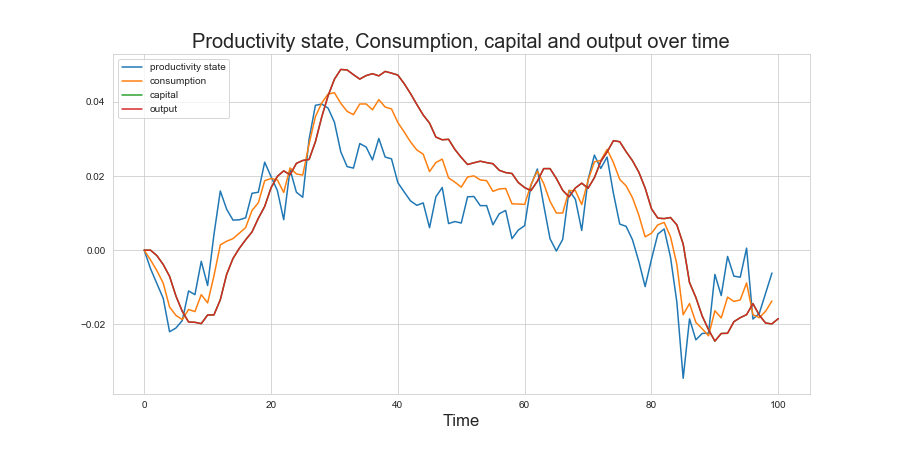
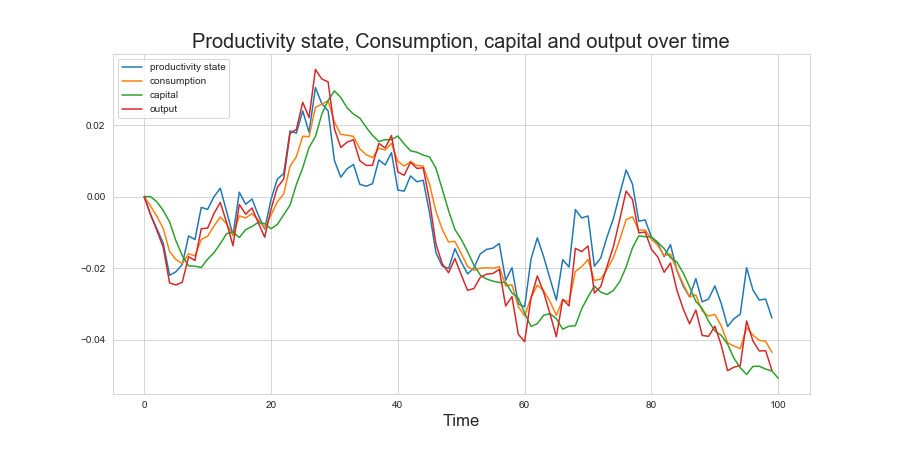
:pencil2: Fix plot typo.

diff --git a/functions.py b/functions.py
@@ -39,7 +39,7 @@ def solve_farmer_model(alpha, beta, delta, rho, T, inital_productivity_state):
     k_t: array_like
         Capital over time. The shape should be (T + 1, 1).
     y_t: array_like
-        Output over time. The shape should be (T + 1, 1).
+        Output over time. The shape should be (T, 1).
     """
     # Getting non-stochastic steady-state values.
     k_bar = ((1 / beta - 1 + delta) / alpha) ** (1 / (alpha - 1))
@@ -132,6 +132,6 @@ def solve_farmer_model(alpha, beta, delta, rho, T, inital_productivity_state):
         k_t[t + 1] = b1 * k_t[t] + b2 * s_t[t] + b3 * c_t[t]
     # log linearization of production function y_t = s_t*(k^{alpha}_t)， yields
     # \hat{y}_t = \hat{s}_t + alpha*\hat{k}_t
-    y_t = np.transpose(s_t) + alpha * k_t[0:len(k_t) - 1]
+    y_t = s_t + alpha * k_t[0:len(k_t) - 1]
 
     return s_t, c_t, k_t, y_t

diff --git a/application.py b/application.py
@@ -32,7 +32,7 @@ fig, ax = plt.subplots(figsize=(T / 8, T / 16))
 ax.plot(time_1, s_t, label="productivity state", color="C0")
 ax.plot(time_1, c_t, label="consumption", color="C1")
 ax.plot(time_2, k_t, label="capital", color="C2")
-ax.plot(time_2, k_t, label="output", color="C3")
+ax.plot(time_1, y_t, label="output", color="C3")
 ax.legend(loc="upper left", fontsize=T / 10)
 
 plt.xlabel("Time", fontsize=T / 6)
